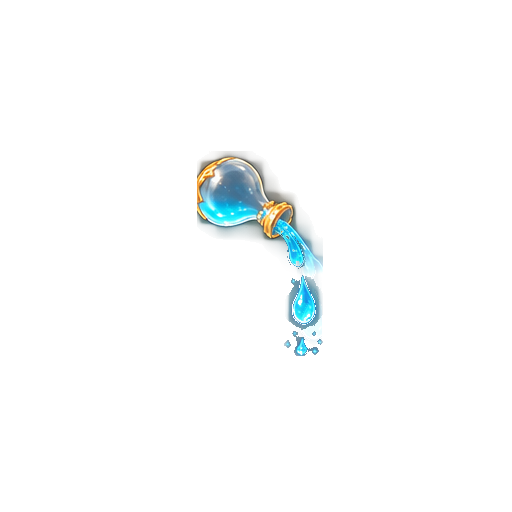
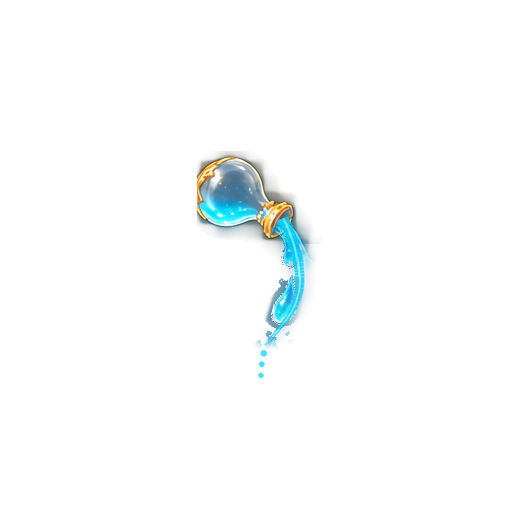
art(h6.9c-c17): remove cropped pour edge and brighten dynamic liquid rim

Changed region(s): [[0.5, 0.4062, 0.6562, 0.75]]

diff --git a/public/design-previews/crystalarium-c17-growth-potion-refined.html b/public/design-previews/crystalarium-c17-growth-potion-refined.html
@@ -1,17 +1,43 @@
 <!doctype html><html lang="en"><head><meta charset="utf-8"><meta name="viewport" content="width=device-width,initial-scale=1"><title>C17 Growth Potion refined asset review</title>
-<style>:root{color-scheme:dark;font-family:system-ui,sans-serif;color:#f0f7ff;background:#102638}*{box-sizing:border-box}body{margin:0;background:radial-gradient(ellipse at 48% 0,#265165 0,#11253b 65%);min-height:100vh}header,main,footer{max-width:1220px;margin:auto;padding:20px}h1{font-size:clamp(1.5rem,3vw,2.25rem);color:#f4d08d}p{line-height:1.5;max-width:77ch}.info{font-size:.9rem;color:#c8ddeb}.noter{border-left:3px solid #e0ba65;padding-left:13px;color:#f8dfaa}.control{border:1px solid #547d91;background:#15334d;padding:15px;border-radius:15px;display:flex;gap:20px;flex-wrap:wrap;align-items:center;margin-bottom:20px}.control input{width:min(420px,60vw)}.control output{font-weight:800;min-width:88px;color:#85f7ff}button{padding:11px 15px;border:1px solid #8cd3e3;border-radius:12px;background:#235c77;color:white;font-weight:bold;cursor:pointer}button:focus-visible,a:focus-visible,input:focus-visible{outline:3px solid #f1c76f;outline-offset:3px}section{margin-top:20px}h2{font-size:1.15rem;margin:0 0 10px;color:#eed3a3}.grid{display:grid;grid-template-columns:repeat(auto-fit,minmax(210px,1fr));gap:15px}.card{background:rgba(13,38,59,.92);border:1px solid #426777;border-radius:18px;text-align:center;padding:15px}.checker{background-color:#c7ced0;background-image:linear-gradient(45deg,#ebeff0 25%,transparent 25%),linear-gradient(-45deg,#ebeff0 25%,transparent 25%),linear-gradient(45deg,transparent 75%,#ebeff0 75%),linear-gradient(-45deg,transparent 75%,#ebeff0 75%);background-size:24px 24px;background-position:0 0,0 12px,12px -12px,-12px 0;border-radius:12px}.checker.dark{background:#16354b}.card canvas{display:block;width:min(100%,285px);height:auto;aspect-ratio:1;margin:auto}.card[data-kind=gauge] canvas{width:min(100%,240px)}.row{display:flex;gap:16px;flex-wrap:wrap;align-items:center}.row img{width:76px;height:76px;object-fit:contain}.muted{color:#b9ccd8;font-size:.88rem}a{color:#8deaff}</style></head><body><header><h1>Crystalarium · Growth Potion refinements</h1><p>Art-only preview: rich swirl liquid clipped at any level, separate glass shells and a stable 12-frame pouring effect. This is <strong>not</strong> the live game and does not alter saves, potion costs or resource rules.</p><p class="noter">The fill percentage is a demonstration control only, not an approved Growth Potion capacity. The full illustrated asset direction remains locked, but these refined individual exports still require visual acceptance.</p></header>
+<style>:root{color-scheme:dark;font-family:system-ui,sans-serif;color:#f0f7ff;background:#102638}*{box-sizing:border-box}body{margin:0;background:radial-gradient(ellipse at 48% 0,#265165 0,#11253b 65%);min-height:100vh}header,main,footer{max-width:1220px;margin:auto;padding:20px}h1{font-size:clamp(1.5rem,3vw,2.25rem);color:#f4d08d}p{line-height:1.5;max-width:77ch}.info{font-size:.9rem;color:#c8ddeb}.noter{border-left:3px solid #e0ba65;padding-left:13px;color:#f8dfaa}.control{border:1px solid #547d91;background:#15334d;padding:15px;border-radius:15px;display:flex;gap:20px;flex-wrap:wrap;align-items:center;margin-bottom:20px}.control input{width:min(420px,60vw)}.control output{font-weight:800;min-width:88px;color:#85f7ff}button{padding:11px 15px;border:1px solid #8cd3e3;border-radius:12px;background:#235c77;color:white;font-weight:bold;cursor:pointer}button:focus-visible,a:focus-visible,input:focus-visible{outline:3px solid #f1c76f;outline-offset:3px}section{margin-top:20px}h2{font-size:1.15rem;margin:0 0 10px;color:#eed3a3}.grid{display:grid;grid-template-columns:repeat(auto-fit,minmax(210px,1fr));gap:15px}.card{background:rgba(13,38,59,.92);border:1px solid #426777;border-radius:18px;text-align:center;padding:15px}.checker{background-color:#c7ced0;background-image:linear-gradient(45deg,#ebeff0 25%,transparent 25%),linear-gradient(-45deg,#ebeff0 25%,transparent 25%),linear-gradient(45deg,transparent 75%,#ebeff0 75%),linear-gradient(-45deg,transparent 75%,#ebeff0 75%);background-size:24px 24px;background-position:0 0,0 12px,12px -12px,-12px 0;border-radius:12px}.checker.dark{background:#16354b}.card canvas{display:block;width:min(100%,285px);height:auto;aspect-ratio:1;margin:auto}.card[data-kind=gauge] canvas{width:min(100%,240px)}.row{display:flex;gap:16px;flex-wrap:wrap;align-items:center}.row img{width:76px;height:76px;object-fit:contain}.muted{color:#b9ccd8;font-size:.88rem}a{color:#8deaff}</style></head><body><header><h1>Crystalarium · Growth Potion refinements</h1><p>Art-only final polish: rich swirl liquid with a clearly illuminated moving waterline, separate glass shells and a corrected 12-frame pouring effect. This is <strong>not</strong> the live game and does not alter saves, potion costs or resource rules.</p><p class="noter">The fill percentage is a demonstration control only, not an approved Growth Potion capacity. The full illustrated asset direction remains locked, but these refined individual exports still require visual acceptance.</p></header>
 <main><div class="control"><label for="level"><b>Test liquid level</b></label><input id="level" type="range" min="0" max="100" value="75" step="1" aria-label="Illustrative liquid fill percentage"><output id="amount" for="level">75% demo</output><button id="background" type="button">Toggle backgrounds</button></div>
 <section><h2>Continuously adjustable fill</h2><div class="grid"><article class="card" data-kind="reservoir"><canvas class="checker" id="reservoir" width="512" height="512"></canvas><p>Main reservoir</p><div class="muted">512px art, responsive scale</div></article><article class="card" data-kind="vial"><canvas class="checker" id="vial" width="256" height="256"></canvas><p>Small potion vial</p><div class="muted">256px art, independent glass</div></article><article class="card" data-kind="gauge"><canvas class="checker" id="gauge" width="512" height="512"></canvas><p>Liquid gauge</p><div class="muted">512px art, independently clipped</div></article></div></section>
-<section><h2>Pouring sequence</h2><div class="row"><article class="card"><canvas class="checker dark" id="pour" width="512" height="512" style="width:min(100%,285px)"></canvas><p id="frame">Frame 1 / 12</p><button id="play" type="button" aria-pressed="true">Pause animation</button></article><div><p>12 stabilised frames with a fixed bottle anchor and progressive stream-to-droplet motion. Cropped stray pixels have been removed.</p><p class="muted">Reduced-motion preference pauses the animation automatically. The game will need its own reduced-motion treatment before runtime adoption.</p></div></div></section>
+<section><h2>Pouring sequence</h2><div class="row"><article class="card"><canvas class="checker dark" id="pour" width="512" height="512" style="width:min(100%,285px)"></canvas><p id="frame">Frame 1 / 12</p><button id="play" type="button" aria-pressed="true">Pause animation</button></article><div><p>12 individually distinct frames with a fixed bottle anchor, a curved stream that no longer hits the source crop edge, and visible short-to-long-to-droplet progression.</p><p class="muted">Reduced-motion preference pauses the animation automatically. The game will need its own reduced-motion treatment before runtime adoption.</p></div></div></section>
 <section><h2>Small icons at interface size</h2><div class="row"><img src="/design-assets/crystalarium-c17/growth-potion-assets/icon-drop.webp" alt="Potion drop icon"><img src="/design-assets/crystalarium-c17/growth-potion-assets/icon-vial.webp" alt="Potion vial icon"><img src="/design-assets/crystalarium-c17/growth-potion-assets/button-pour.webp" alt="Pour control icon"><img src="/design-assets/crystalarium-c17/growth-potion-assets/button-add.webp" alt="Add potion control icon"></div><p class="muted">Fine details are expected to simplify at 48px; hitboxes must remain at least 48px in the eventual game.</p></section><p id="status" role="status" class="muted">Loading separate art layers…</p><p><a href="/design-previews/crystalarium-c17-growth-potion-assets.html">View all individual sprite files</a></p></main>
 <script>
 const base='/design-assets/crystalarium-c17/growth-potion-assets/';
 const types=['reservoir','vial','gauge'],assets={},range=document.querySelector('#level');
 let amount=75,playing=!window.matchMedia('(prefers-reduced-motion: reduce)').matches,frame=0,lastTick=0,loaded=false;
-const bound={reservoir:[181,362],vial:[110,212],gauge:[155,358]};
+const bound={reservoir:[181,362,272],vial:[110,212,162],gauge:[155,358,256]};
 function load(n){return new Promise((resolve,reject)=>{let im=new Image();im.onload=()=>resolve(im);im.onerror=()=>reject(Error('Missing image '+n));im.src=base+n+'.webp';});}
 async function init(){try{await Promise.all([...types.flatMap(k=>['liquid-texture','glass-shell','fill-region-mask','liquid-surface-line'].map(async id=>{assets[k+'-'+id]=await load(k+'-'+id)})),...Array.from({length:12},(_,i)=>(async()=>{assets['pour-'+i]=await load('pour-'+String(i+1).padStart(2,'0'))})())]);loaded=true;draw();document.getElementById('status').textContent='All 24 preview images loaded from independent transparent WebPs.';}catch(err){document.getElementById('status').textContent='Art loading error: '+err.message;}}
-function draw(){if(!loaded)return;for(const k of types){const canvas=document.getElementById(k),ctx=canvas.getContext('2d'),w=canvas.width,h=canvas.height,[top,bottom]=bound[k],cut=bottom-(bottom-top)*amount/100;ctx.clearRect(0,0,w,h);if(amount>0){ctx.save();ctx.beginPath();ctx.rect(0,cut,w,h-cut);ctx.clip();ctx.drawImage(assets[k+'-liquid-texture'],0,0,w,h);ctx.restore();if(amount<100){let surf=document.createElement('canvas');surf.width=w;surf.height=h;const sc=surf.getContext('2d');sc.drawImage(assets[k+'-liquid-surface-line'],0,cut-h/2,w,h);sc.globalCompositeOperation='destination-in';sc.drawImage(assets[k+'-fill-region-mask'],0,0,w,h);ctx.drawImage(surf,0,0);}}ctx.drawImage(assets[k+'-glass-shell'],0,0,w,h);}const p=document.getElementById('pour').getContext('2d');p.clearRect(0,0,512,512);p.drawImage(assets['pour-'+frame],0,0,512,512);document.getElementById('frame').textContent='Frame '+(frame+1)+' / 12';}
+function draw(){
+if(!loaded)return;
+for(const k of types){
+ const canvas=document.getElementById(k),ctx=canvas.getContext('2d'),w=canvas.width,h=canvas.height;
+ const [top,bottom,surfaceOrigin]=bound[k],cut=bottom-(bottom-top)*amount/100;
+ ctx.clearRect(0,0,w,h);
+ if(amount>0){
+   ctx.save();ctx.beginPath();ctx.rect(0,cut,w,h-cut);ctx.clip();
+   ctx.drawImage(assets[k+'-liquid-texture'],0,0,w,h);ctx.restore();
+ }
+ // The glass remains separate from the textured fluid, preserving highlights.
+ ctx.drawImage(assets[k+'-glass-shell'],0,0,w,h);
+ // Position the new luminous waterline at the *actual* level, AFTER glass:
+ // earlier preview composited the hairline underneath the bottle highlights.
+ if(amount>0 && amount<100){
+  const overlay=document.createElement('canvas');overlay.width=w;overlay.height=h;
+  const oc=overlay.getContext('2d');
+  oc.drawImage(assets[k+'-liquid-surface-line'],0,cut-surfaceOrigin,w,h);
+  oc.globalCompositeOperation='destination-in';
+  oc.drawImage(assets[k+'-fill-region-mask'],0,0,w,h);
+  ctx.drawImage(overlay,0,0);
+ }
+}
+const p=document.getElementById('pour').getContext('2d');
+p.clearRect(0,0,512,512);p.drawImage(assets['pour-'+frame],0,0,512,512);
+document.getElementById('frame').textContent='Frame '+(frame+1)+' / 12';
+}
 range.addEventListener('input',()=>{amount=Number(range.value);document.querySelector('#amount').textContent=amount+'% demo';draw();});
 document.getElementById('background').addEventListener('click',()=>document.querySelectorAll('.checker').forEach(el=>el.classList.toggle('dark')));
 function updateButton(){const b=document.getElementById('play');b.textContent=playing?'Pause animation':'Play animation';b.setAttribute('aria-pressed',String(playing));}

diff --git a/docs/design/2026-10-28-CRYSTALARIUM-C17-ART-INTEGRATION-REVIEW.md b/docs/design/2026-10-28-CRYSTALARIUM-C17-ART-INTEGRATION-REVIEW.md
@@ -146,3 +146,10 @@ Following the approved visual direction, an **art-only candidate pack** was gene
 ### C17 Growth Potion correction pass — 28 October 2026
 
[1 lines of base64/hex data omitted]
+
+
+### C17 Growth Potion targeted polish, final visual candidate — 28 October 2026
+
+Corrected the specific issues from user review: 12 source pouring poses were repainted/alpha-warped to **remove the straight right-side crop seam**, and their stream extents now vary deliberately through the opening frames, reaching a long curved pour before breaking into droplets. The fixed bottle anchor remains unchanged. Three replacement line sprites add a **bright, glow-backed liquid surface** to reservoir, vial and gauge; the no-save dynamic demonstration renders that rim after the glass, clips it to the interior mask, and moves it with arbitrary fill percentages. No staged percent-only sprite was substituted for canonical state.
+
+**Exactly 15 lossless WebP candidates updated** on draft World PR #337 (12 pour frames and three surface lines), with SHA/byte provenance in the C17 manifest. Stored archive: https://drive.google.com/file/d/1SU5FdvMhOKVVnPWmUy1hahgJAdC4lWE5/view. The 12 frames have individually distinct extents and no high-opacity cropped column at x=322; transparent corners and independently separated liquid/glass layers were checked. Refined preview path: `/design-previews/crystalarium-c17-growth-potion-refined.html`. **Await human inspection on an exact-head deployed preview before final artwork lock.** This is C17 art only: no live game renderer, C20 economy, save migration or PR merge.

diff --git a/docs/work-packages/R6.5-WP19H6.9C17-C24-CRYSTALARIUM-ILLUSTRATED-REDESIGN-ROADMAP.md b/docs/work-packages/R6.5-WP19H6.9C17-C24-CRYSTALARIUM-ILLUSTRATED-REDESIGN-ROADMAP.md
@@ -195,3 +195,10 @@ Following the approved visual direction, an **art-only candidate pack** was gene
 ### C17 Growth Potion correction pass — 28 October 2026
 
[1 lines of base64/hex data omitted]
+
+
+### C17 Growth Potion targeted polish, final visual candidate — 28 October 2026
+
+Corrected the specific issues from user review: 12 source pouring poses were repainted/alpha-warped to **remove the straight right-side crop seam**, and their stream extents now vary deliberately through the opening frames, reaching a long curved pour before breaking into droplets. The fixed bottle anchor remains unchanged. Three replacement line sprites add a **bright, glow-backed liquid surface** to reservoir, vial and gauge; the no-save dynamic demonstration renders that rim after the glass, clips it to the interior mask, and moves it with arbitrary fill percentages. No staged percent-only sprite was substituted for canonical state.
+
+**Exactly 15 lossless WebP candidates updated** on draft World PR #337 (12 pour frames and three surface lines), with SHA/byte provenance in the C17 manifest. Stored archive: https://drive.google.com/file/d/1SU5FdvMhOKVVnPWmUy1hahgJAdC4lWE5/view. The 12 frames have individually distinct extents and no high-opacity cropped column at x=322; transparent corners and independently separated liquid/glass layers were checked. Refined preview path: `/design-previews/crystalarium-c17-growth-potion-refined.html`. **Await human inspection on an exact-head deployed preview before final artwork lock.** This is C17 art only: no live game renderer, C20 economy, save migration or PR merge.
